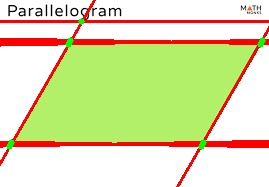
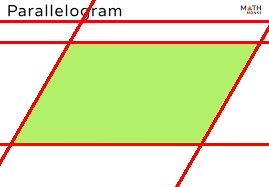
works great on the green parallelogram

diff --git a/tryingHoughLines.py b/tryingHoughLines.py
@@ -13,8 +13,11 @@ from collections import defaultdict
 from matplotlib import pyplot as plt
 
 img = cv2.imread('images/download.png')
-
+#img = cv2.imread('images/commercial-billboard-mockup-display-outdoor_174431-225.webp')
+#img = cv2.imread('images/imageParal.jpg')
+height, width = img.shape[:2]
 # Convert the img to grayscale
+# img=cv2.GaussianBlur(img, (2, 2), 0)
 gray = cv2.cvtColor(img, cv2.COLOR_BGR2GRAY)
 
 titles = ['Original Image', 'grey']
@@ -26,7 +29,35 @@ for i in range(2):
 plt.show()
 
 # Apply edge detection method on the image
-edges = cv2.Canny(gray, 50, 150, apertureSize=3)
+#edges = cv2.Canny(gray, 50, 150, apertureSize=3)
+
+#laplacian
+ddepth = cv2.CV_8UC1
+kernel_size = 3
+window_name = "Laplace Demo"
+edges=cv2.Laplacian(gray, ddepth, ksize=kernel_size)#a matrix
+
+
+print(edges)
+
+#filtering
+for y in range (len(edges)):
+    for x in range (len(edges[y])):
+        if(edges[y][x]<220):
+            edges[y][x] = 0
+
+
+
+
+# [convert]
+# converting back to uint8
+abs_dst = cv2.convertScaleAbs(edges)
+# [convert]
+# [display]
+cv2.imwrite('laplac.jpg', abs_dst)
+# cv2.imshow(window_name, abs_dst)
+# cv2.waitKey(0)
+#print(edges)
 
 titles = ['Original Image', 'grey']
 images = [img, edges]
@@ -37,7 +68,10 @@ for i in range(2):
 plt.show()
 # This returns an array of r and theta values
 
-lines = cv2.HoughLines(edges, 1, np.pi / 180, 80)
+#lines = cv2.HoughLines(edges, 1, np.pi / 180, int( min(height,width)*0.588))
+lines = cv2.HoughLines(edges, 1, np.pi / 180, 100)
+
+
 
 # The below for loop runs till r and theta values
 # are in the range of the 2d array
@@ -83,7 +117,10 @@ for r_theta in lines:
 segmented = helpFunctions.segment_by_angle_kmeans(lines)
 intersections = helpFunctions.segmented_intersections(segmented)
 
-for inter in intersections:
-    cv2.circle(img, (inter[0][0], inter[0][1]), radius=3, color=(0, 255, 0), thickness=-1)
+# for inter in intersections:
+#     cv2.circle(img, (inter[0][0], inter[0][1]), radius=3, color=(0, 255, 0), thickness=-1)
+#     # cv2.putText(img, str(inter[0][0])+" "+str( inter[0][1]), (inter[0][0], inter[0][1]),
+#     #             cv2.FONT_HERSHEY_COMPLEX, 0.5, (0, 255, 0))
+# print(intersections)
 
 cv2.imwrite('linesDetected.jpg', img)

diff --git a/helpFunctions.py b/helpFunctions.py
@@ -5,7 +5,7 @@ import numpy as np
 
 
 def lines_to_map(lines):
-    cleaned = [[line[0][0], round(line[0][1], 4)] for line in lines]
+    cleaned = [[line[0][0], round(line[0][1], 3)] for line in lines]
     thetas = [theta for r, theta in cleaned]
     map = {}
     for theta in set(thetas):
@@ -105,3 +105,14 @@ def segmented_intersections(lines):
                     intersections.append(intersection(line1, line2))
 
     return intersections
+
+def findVer(vertices):
+    cleaned = [ver[0] for ver in vertices]
+    fourVer=[[0,0],[0,0],[0,0],[0,0]]
+    leftDown=[0,0]
+    leftUp=[0,0]
+    rightDown=[0,0]
+    rightUp = [0, 0]
+    for x,y in cleaned:
+        True
+
